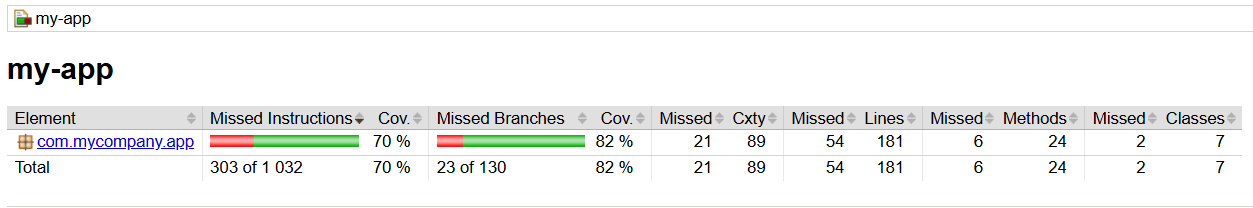
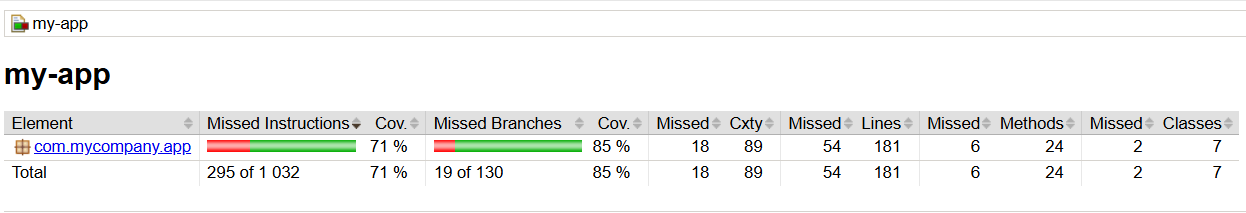
fix

diff --git a/src/test/java/com/mycompany/app/GameTests.java b/src/test/java/com/mycompany/app/GameTests.java
@@ -1,0 +1,217 @@
+package com.mycompany.app;
+
+import org.junit.Test;
+import static org.junit.Assert.*;
+import java.util.ArrayList;
+import java.util.Arrays;
+
+public class GameTests {
+
+    private char[] boardFromString(String state) {
+        char[] board = new char[9];
+        for (int i = 0; i < 9; i++) {
+            board[i] = state.charAt(i);
+        }
+        return board;
+    }
+
+    @Test
+    public void initializationShouldSetCorrectState() {
+        Game g = new Game();
+        assertEquals(State.PLAYING, g.state);
+        for (int i = 0; i < 9; i++) {
+            assertEquals(' ', g.board[i]);
+        }
+        assertEquals('X', g.player1.symbol);
+        assertEquals('O', g.player2.symbol);
+    }
+
+    @Test
+    public void checkStateDetectsOWinRow() {
+        Game g = new Game();
+        g.board = boardFromString("      OOO");
+        g.symbol = 'O';
+        assertEquals(State.OWIN, g.checkState(g.board));
+    }
+
+    @Test
+    public void checkStateDetectsXWinColumn() {
+        Game g = new Game();
+        g.board = boardFromString(" X  X  X ");
+        g.symbol = 'X';
+        assertEquals(State.XWIN, g.checkState(g.board));
+    }
+
+    @Test
+    public void checkStateDrawWhenFull() {
+        Game g = new Game();
+        g.board = boardFromString("XOXOXOOXX");
+        g.symbol = 'X';
+        assertEquals(State.DRAW, g.checkState(g.board));
+    }
+
+    @Test
+    public void checkStatePlayingWhenEmptyCellsExist() {
+        Game g = new Game();
+        g.board = boardFromString("XO  O    ");
+        g.symbol = 'X';
+        assertEquals(State.PLAYING, g.checkState(g.board));
+    }
+
+    @Test
+    public void generateMovesOnPartialBoard() {
+        Game g = new Game();
+        g.board = boardFromString("X O X    ");
+        ArrayList<Integer> moves = new ArrayList<>();
+        g.generateMoves(g.board, moves);
+        assertEquals(6, moves.size());
+        assertFalse(moves.contains(0));
+        assertFalse(moves.contains(2));
+        assertFalse(moves.contains(4));
+        assertTrue(moves.contains(1));
+        assertTrue(moves.contains(3));
+        assertTrue(moves.contains(5));
+        assertTrue(moves.contains(6));
+        assertTrue(moves.contains(7));
+        assertTrue(moves.contains(8));
+    }
+
+    @Test
+    public void evaluatePositionOWinForOPlayer() {
+        Game g = new Game();
+        g.board = boardFromString("O O O    ");
+        g.symbol = 'O';
+        g.player2.symbol = 'O';
+        assertEquals(+Game.INF, g.evaluatePosition(g.board, g.player2));
+    }
+
+    @Test
+    public void evaluatePositionOWinForXPlayer() {
+        Game g = new Game();
+        g.board = boardFromString("OOO      ");
+        g.symbol = 'O';
+        g.player1.symbol = 'X';
+        assertEquals(-Game.INF, g.evaluatePosition(g.board, g.player1));
+    }
+
+    @Test
+    public void evaluatePositionDrawReturnsZero() {
+        Game g = new Game();
+        g.board = boardFromString("XOXOXOOXX");
+        g.symbol = 'X';
+        assertEquals(0, g.evaluatePosition(g.board, g.player1));
+    }
+
+    @Test
+    public void evaluatePositionNonTerminalReturnsMinusOne() {
+        Game g = new Game();
+        g.board = boardFromString("XO       ");
+        g.symbol = 'X';
+        assertEquals(-1, g.evaluatePosition(g.board, g.player1));
+    }
+
+    @Test
+    public void minimaxOnNonTerminalReturnsValidMove() {
+        Game g = new Game();
+        g.board = boardFromString("XOXOXO X ");
+        g.player1.symbol = 'X';
+        int move = g.MiniMax(g.board, g.player1);
+        assertTrue(move >= 1 && move <= 9);
+    }
+
+    @Test
+    public void minimaxBlocksOWinThreat() {
+        Game g = new Game();
+        g.board = boardFromString(" O O     ");
+        g.player1.symbol = 'X';
+        int move = g.MiniMax(g.board, g.player1);
+        assertEquals(6, move);
+    }
+
+    @Test
+    public void minimaxPicksLastEmptyCell() {
+        Game g = new Game();
+        g.board = boardFromString("XOXOXOOX ");
+        g.player1.symbol = 'X';
+        int move = g.MiniMax(g.board, g.player1);
+        assertEquals(9, move);
+    }
+
+    @Test
+    public void minMoveOnTerminalPosition() {
+        Game g = new Game();
+        g.board = boardFromString("OOO XX   ");
+        g.symbol = 'O';
+        int val = g.MinMove(g.board, g.player1);
+        assertEquals(-Game.INF, val);
+    }
+
+    @Test
+    public void maxMoveOnTerminalPosition() {
+        Game g = new Game();
+        g.board = boardFromString("OOO XX   ");
+        g.symbol = 'O';
+        int val = g.MaxMove(g.board, g.player2);
+        assertEquals(+Game.INF, val);
+    }
+
+    @Test
+    public void utilityPrintCharArrayNoException() {
+        char[] board = boardFromString("XO X O X ");
+        Utility.print(board);
+    }
+
+    @Test
+    public void utilityPrintIntArrayNoException() {
+        int[] moves = {0,1,2,3,4,5,6,7,8};
+        Utility.print(moves);
+    }
+
+    @Test
+    public void generateMovesOnEmptyBoard() {
+        Game g = new Game();
+        ArrayList<Integer> moves = new ArrayList<>();
+        g.generateMoves(g.board, moves);
+        assertEquals(9, moves.size());
+        for (int i = 0; i < 9; i++) {
+            assertEquals(Integer.valueOf(i), moves.get(i));
+        }
+    }
+
+    @Test
+    public void minimaxAlwaysReturnsValidMove() {
+        Game g = new Game();
+        int move = g.MiniMax(g.board, g.player1);
+        assertTrue(move >= 1 && move <= 9);
+    }
+
+    @Test(timeout = 5000)
+    public void minimaxOnEmptyCompletesQuickly() {
+        Game g = new Game();
+        g.MiniMax(g.board, g.player2);
+    }
+
+    @Test
+    public void cellConstructorStoresValues() {
+        TicTacToeCell cell = new TicTacToeCell(5, 2, 1);
+        assertEquals(5, cell.getNum());
+        assertEquals(2, cell.getCol());
+        assertEquals(1, cell.getRow());
+        assertEquals(' ', cell.getMarker());
+    }
+
+    @Test
+    public void setMarkerDisablesButtonAndUpdatesText() {
+        TicTacToeCell cell = new TicTacToeCell(1, 0, 0);
+        assertTrue(cell.isEnabled());
+        cell.setMarker("O");
+        assertEquals('O', cell.getMarker());
+        assertFalse(cell.isEnabled());
+    }
+
+    @Test
+    public void utilityPrintArrayListNoException() {
+        ArrayList<Integer> list = new ArrayList<>(Arrays.asList(0, 4, 8));
+        Utility.print(list);
+    }
+}

diff --git a/src/main/java/com/mycompany/app/Program.java b/src/main/java/com/mycompany/app/Program.java
@@ -229,7 +229,6 @@ class TicTacToeCell extends JButton {
     public int getNum() {
         return num;
     }
-
 }
 
 class Utility {
